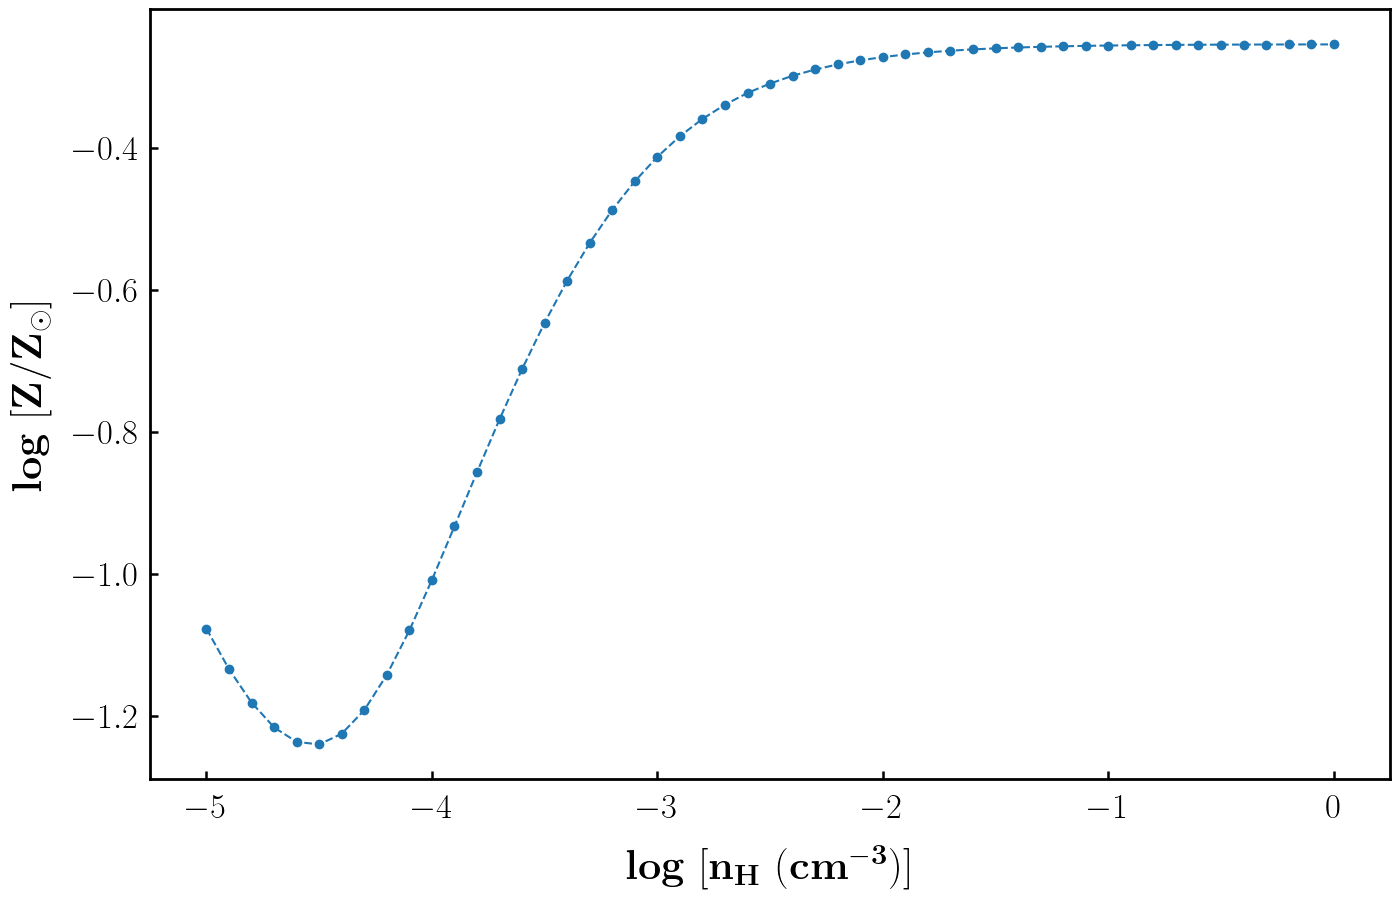
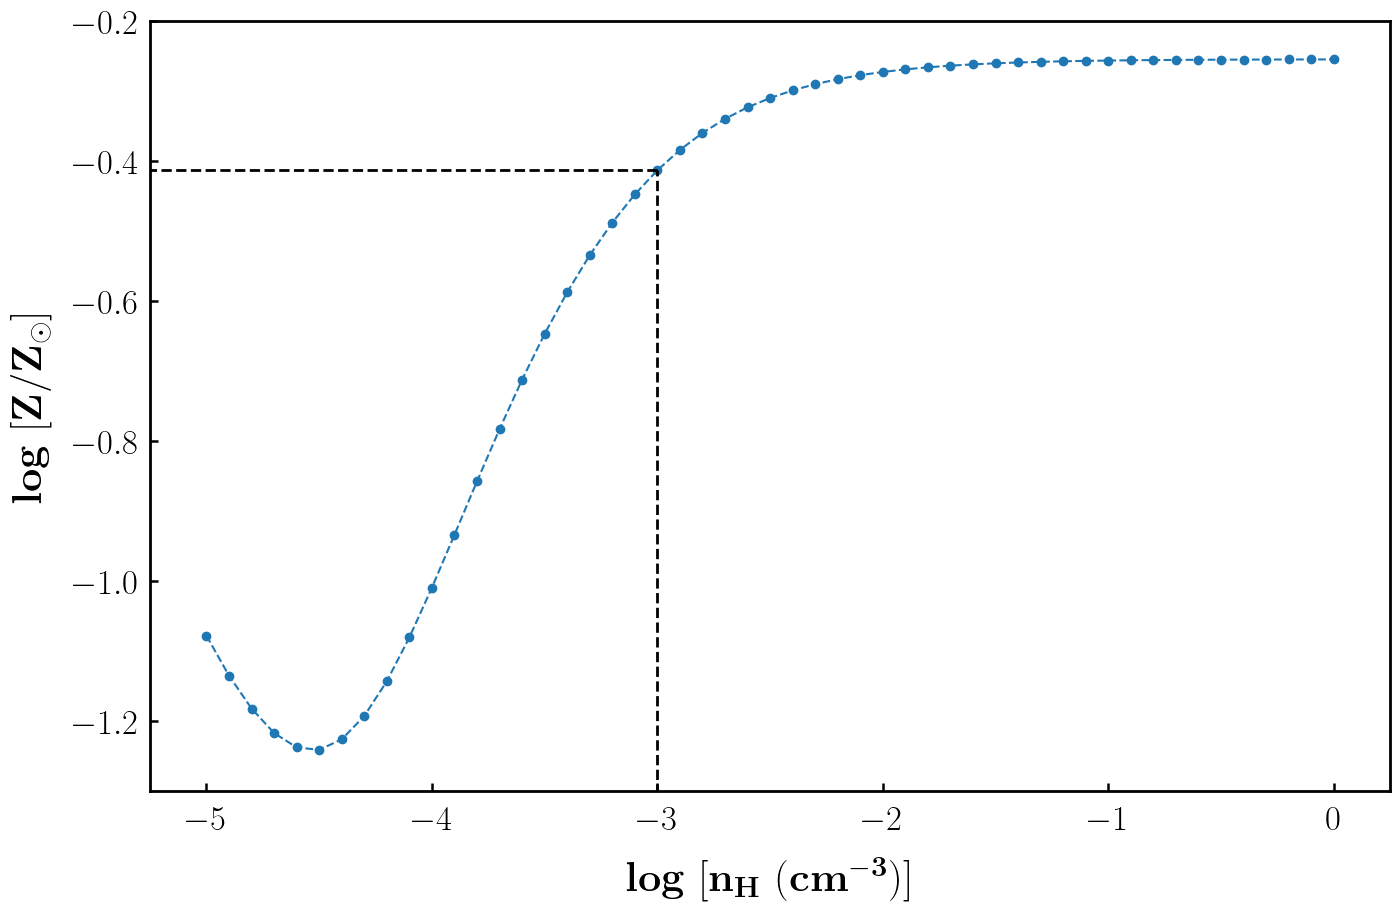
Auto

diff --git a/Cloudy_runs/Untitled-1.py b/Cloudy_runs/Untitled-1.py
@@ -92,12 +92,16 @@ for n in nH:
 plt.figure(figsize=(16,10))
 plt.plot(nH,Z,ls='--')
 plt.scatter(nH,Z)
+plt.hlines(-0.41271532,-7,-3,ls='--',lw=2,color='black')
+plt.vlines(-3,-4,-0.41271532,ls='--',lw=2,color='black')
 plt.ylabel(r'$\mathbf{log \ [Z/{Z_{\odot}}]}$',labelpad=15,fontsize=30)
 # plt.ylabel(ion_label('log \ [Z/{Z_{\odot}}]',''),labelpad=15,fontsize=30)
 plt.xlabel(r'$\mathbf{log \ [n_H \ ({cm}^{-3})]}$',labelpad=15,fontsize=30)
 plt.xticks(fontsize=25)
 plt.yticks(fontsize=25)
-plt.savefig('comp_II_CIE.png')
+plt.xlim(-5.25,0.25)
+plt.ylim(-1.3,-0.2)
+plt.savefig('comp_II_CIE1.png')
 
 plt.show()
 

diff --git a/Cloudy_runs/chi_sq.py b/Cloudy_runs/chi_sq.py
@@ -15,7 +15,7 @@ def ion_label(ion,state):
 
 ions=['Si+2', 'Si+','C+2', 'C+','O+5']
 ions_roman=[ion_label('Si','III'),ion_label('Si','II'),ion_label('C','III'),ion_label('C','II'),ion_label('O','VI')]
-observations={'Si+2':[12.87,0.08],'Si+':[13.19,0.41], 'C+2':[13.81,0.04],'C+':[14.21,0.39], 'O+5':[13.91,0.04]}
+observations={'Si+2':[12.87,0.08],'Si+':[13.19,0.41], 'C+2':[13.72,0.04],'C+':[14.21,0.39], 'O+5':[13.91,0.04]}
 
 interp_func_dict={}
 
